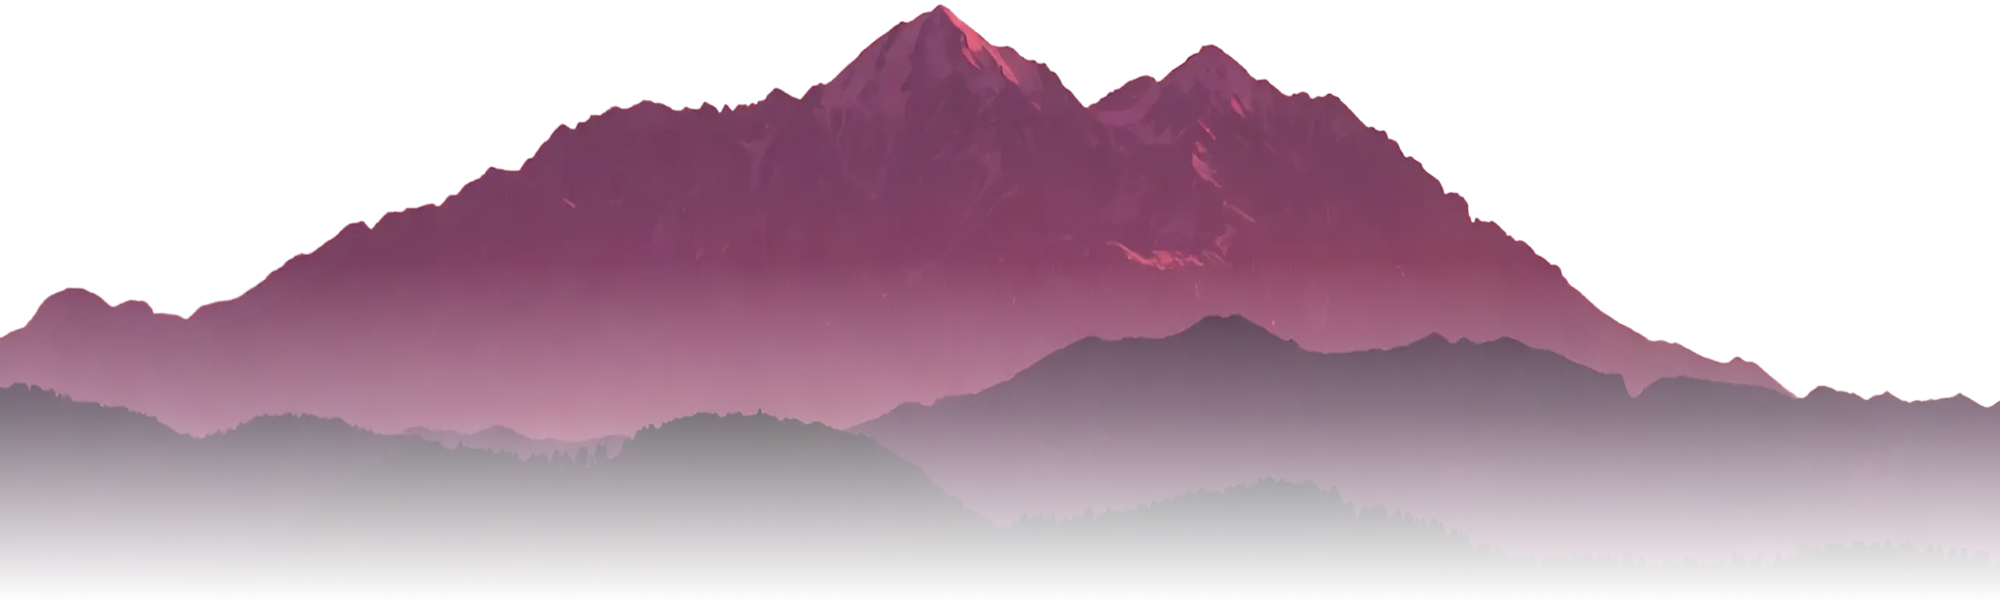
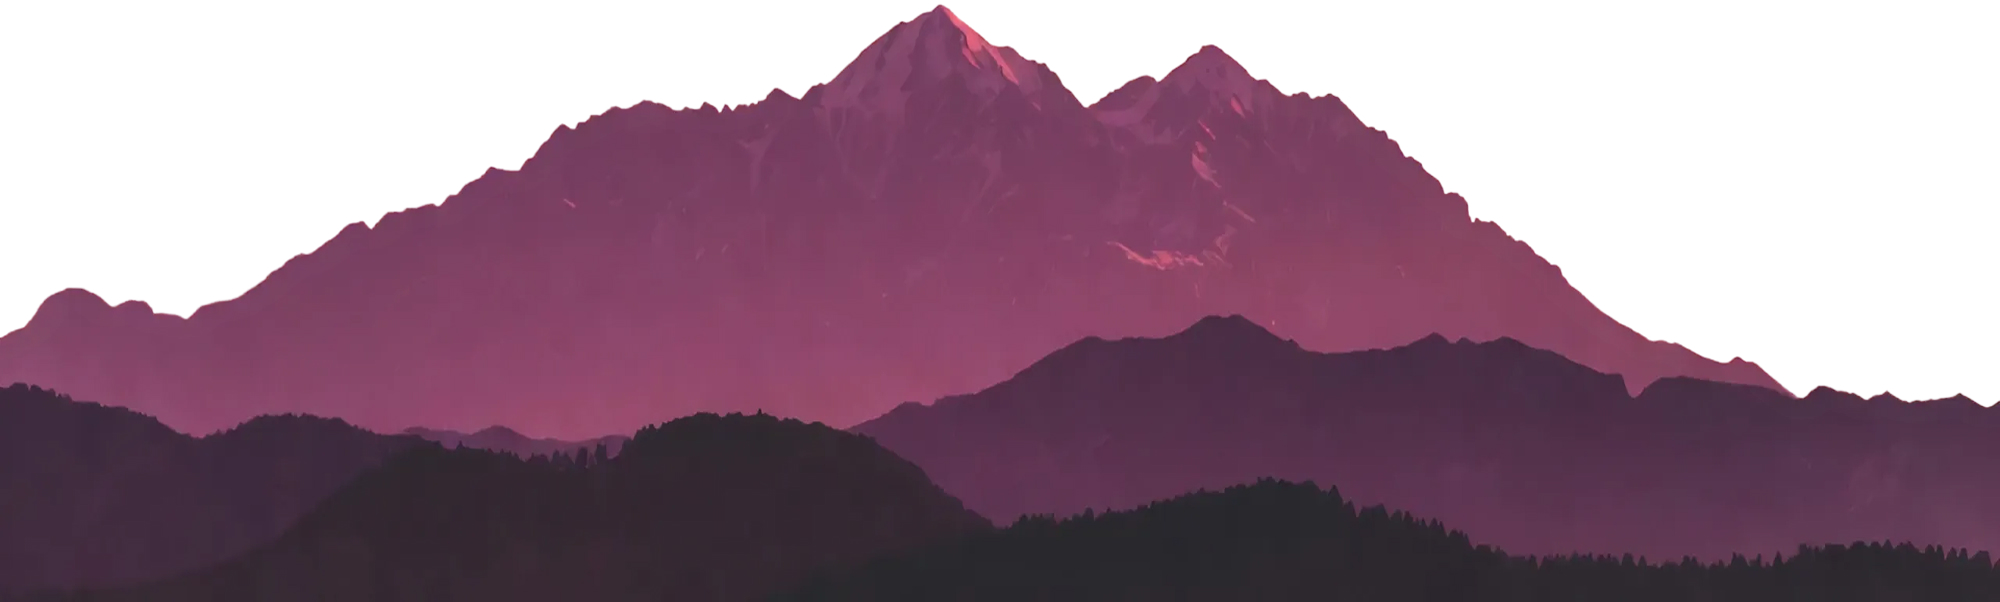
style(base): refactor workspace background with integrated mountain imagery
- Replace dot grid pattern with layered background approach combining gradients and mountain image
- Integrate mountain background image directly into workspace-container background layers
- Add top and bottom gradient overlays to create depth and visual separation
- Remove ::before pseudo-element mountain implementation in favor of background-image layer
- Optimize mountain image asset for better performance and visual quality
- Consolidate background properties for improved maintainability and rendering efficiency

diff --git a/styles/base.css b/styles/base.css
@@ -208,18 +208,27 @@ body.loaded .desktop-canvas .workspace-container {
   width: 100%;
   height: 100%;
   /* CRITICAL: Solid background only */
-    background: 
-    radial-gradient(circle at center, rgba(0, 0, 0, 0.07) 1.5px, transparent 1.5px),
-     #8A547D;
-  background-size: 
-    16px 16px,
-    100% 100%;
-  background-position: 
-    0 0,
-    center center;
-  background-repeat: 
-    repeat,
-    no-repeat;
+  background-color: #8A547D;
+  background-image:
+    linear-gradient(to bottom, #8A547D 0%, rgba(138, 84, 125, 0) 28%),
+    linear-gradient(to top, #8A547D 0%, rgba(138, 84, 125, 0) 28%),
+    url('../assets/images/bg-mountains.jpg'),
+    radial-gradient(circle at center, rgba(0, 0, 0, 0.07) 1.5px, transparent 1.5px);
+  background-size:
+    100% 20vh,
+    100% 20vh,
+    100% auto,
+    16px 16px;
+  background-position:
+    top center,
+    bottom center,
+    bottom center,
+    0 0;
+  background-repeat:
+    no-repeat,
+    no-repeat,
+    no-repeat,
+    repeat;
   /* CRITICAL: Internal coordinate system for widgets */
   overflow: visible;
   overscroll-behavior: none;
@@ -234,27 +243,7 @@ body.loaded .desktop-canvas .workspace-container {
 /* CRITICAL: Mountains at bottom of workspace-container, full workspace width */
 /* UPDATED COMMENTS: Background positioned relative to workspace, not viewport */
 /* CRITICAL: No z-index - positioned behind widgets by DOM order */
-.workspace-container::before {
-  content: '';
-  position: absolute;
-  bottom: 0;
-  left: 0;
-  width: 100%;
-  height: 100%;
-  background-image: url('../assets/images/bg-mountains.jpg');
-  background-position: bottom center;
-  background-size: 100% auto;
-  background-repeat: no-repeat;
-  opacity: 0;
-  pointer-events: none;
-  mix-blend-mode: darken;
-  transition: opacity 0.5s ease-in;
-}
-
-/* CRITICAL: Show mountains after loading */
-body.loaded .workspace-container::before {
-  opacity: 0.3;
-}
+/* NOTE: Mountains are now part of the workspace background layers */
 
 /* ANCHOR: mobile_canvas_adaptation */
 /* UPDATED COMMENTS: Mobile canvas with touch pan/scroll */
